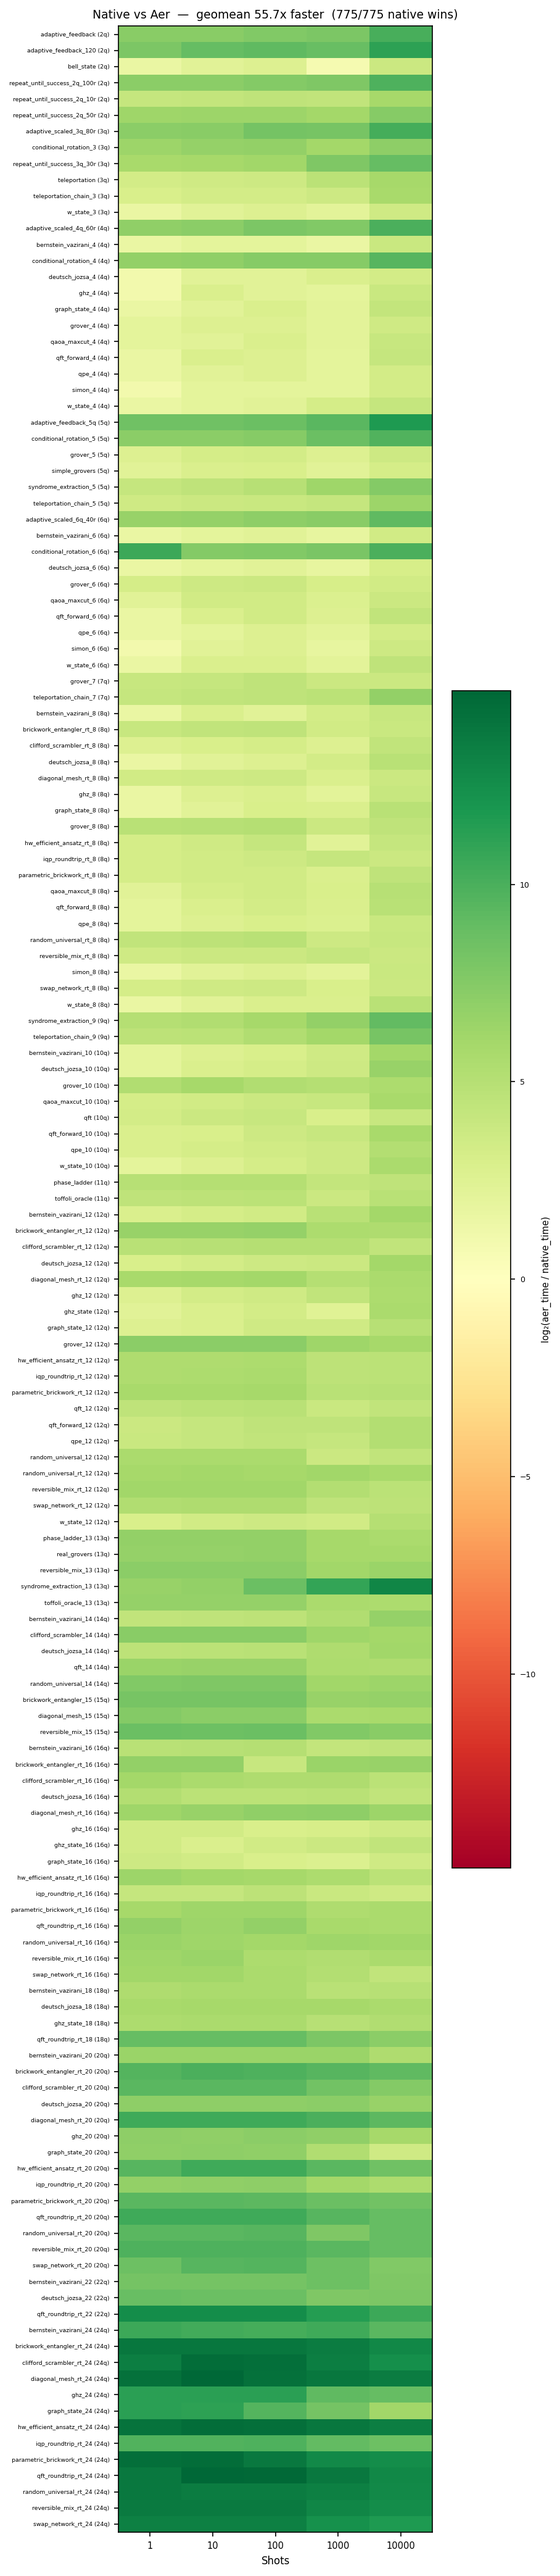
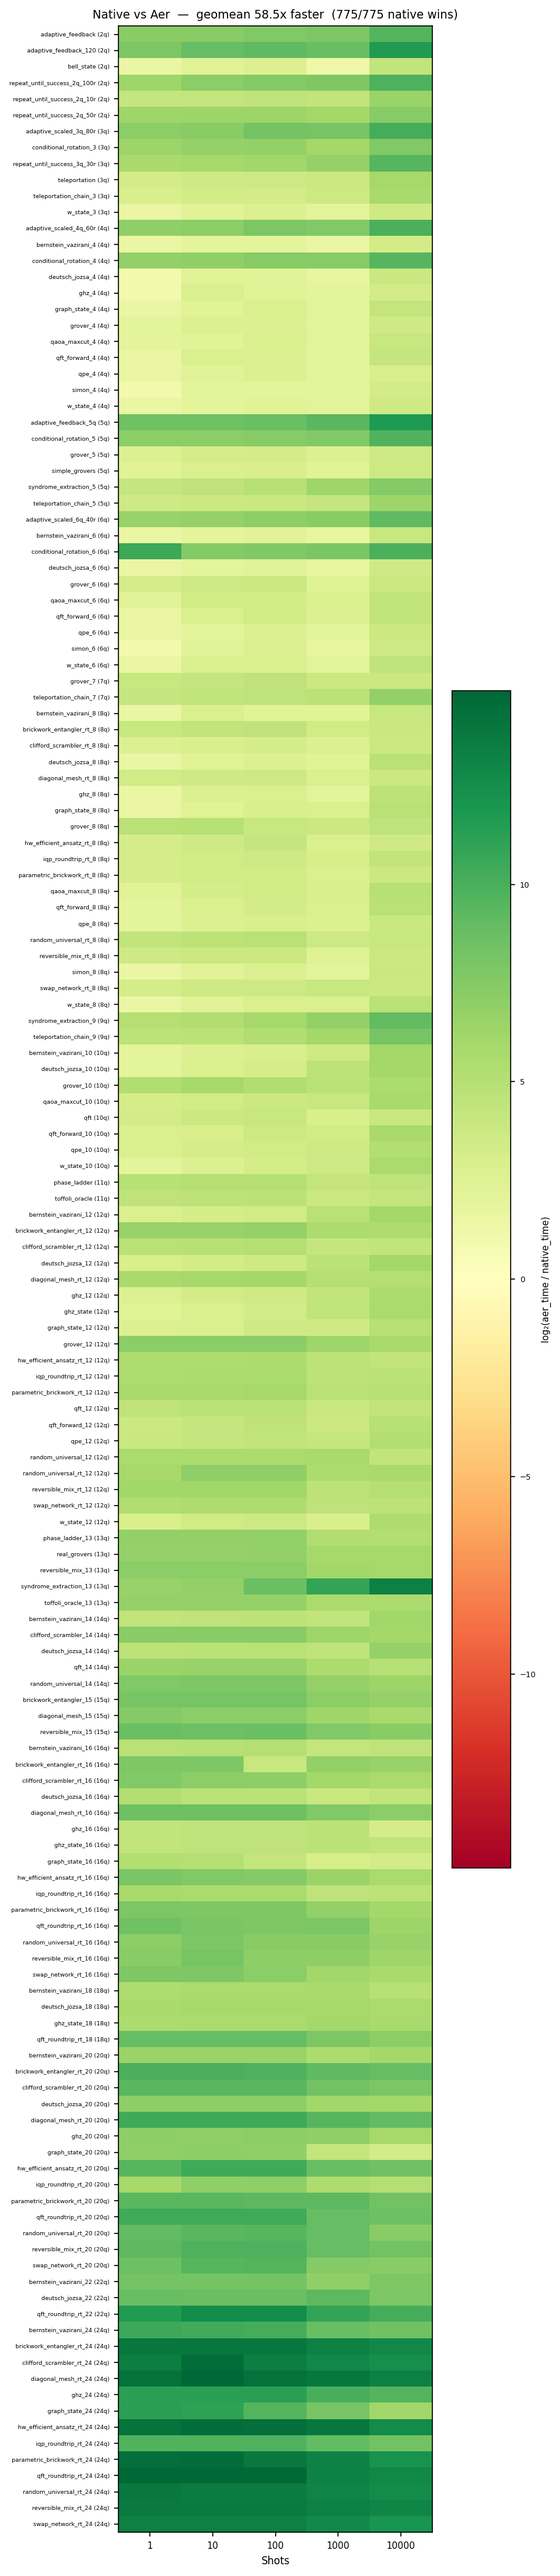
Record idx 40: adaptive bincount vs unique
Total: 0.155s → 0.146s (6%). Aer geomean: 58.5x (775/775 native wins).

diff --git a/docs/experiment-log.md b/docs/experiment-log.md
@@ -56,3 +56,4 @@ Metric column: core-6 @1000 total for idx 0-24; full-suite @1000 total (complete
 | 37 | `7c8bacb` | Two optimizations: (1) Vectorized binary string formatting — numpy broadcast bit extraction (`>>` + `& 1` + `tobytes` + `decode`) replaces per-element `format()` calls. ~30% faster on format loop. (2) Sparse CDF caching for static circuits — when output distribution has K << 2^n nonzero outcomes, store only (codes, CDF) with K entries instead of dense 2^n CDF. Searchsorted on K=2 instead of 16M at 24q. Benefits roundtrip, BV, DJ, GHZ circuits. `deutsch_jozsa_22` 2.3x, `bernstein_vazirani_24` 1.7x faster. Aer geomean: 47.2x native faster. 775/775 cells native wins. | 0.048s (156 cases) | Worked (1.04x) |
 | 38 | `8464055` | Optimized `_counts_from_register_codes` dict construction. (1) Pre-decode raw bytes to Python str once, then use str slicing in dict comprehension instead of per-element bytes slice + decode — 1.5x faster on the format loop (~10K entries at 24q: 3.1ms→1.9ms). (2) Lowered bincount threshold from 20 to 16 bits — `torch.unique` is O(K log K) vs `bincount+nonzero` O(2^n), crossover at ~17q. At 24q/10K shots: bincount 5ms vs unique 0.4ms. Aer geomean: 53.3x native faster (was 47.2x). 775/775 cells native wins. | 0.043s (156 cases) | Worked (1.18x) |
 | 39 | `74183cf` | Binary string lookup table for ≤16-bit register codes. Pre-compute `list[str]` mapping code → binary string for n_bits ≤ 16 (max 65K entries, ~1MB, built lazily). Direct list index lookup is 2x faster than numpy bit extraction + tobytes + decode for converting register codes to dict keys. `graph_state_16` 1.4x, `grover_12` 1.3x faster. Aer geomean: 55.7x native faster (was 53.3x). 775/775 cells native wins. | 0.039s (156 cases) | Worked (1.10x) |
+| 40 | `751b889` | Adaptive bincount vs unique based on sample density. Use `torch.bincount` (O(2^n)) only when histogram is dense relative to sample count (`dim ≤ 2 * shots`). Otherwise use `torch.unique` (O(K log K)). At 16q/@1: bincount allocates 65K histogram for 1 sample (0.16ms), unique operates on 1 element (0.005ms, 32x faster). Low-shot totals improved: @1 20% faster, @10 18% faster. Aer geomean: 58.5x native faster (was 55.7x). 775/775 cells native wins. | 0.038s (156 cases) | Worked (1.05x) |

diff --git a/README.md b/README.md
@@ -6,7 +6,7 @@ A state-vector quantum circuit simulator built from scratch with PyTorch, target
 
 156 test circuits spanning 2-24 qubits, 10 circuit families, static and dynamic workloads. Benchmarked against Qiskit Aer (IBM's C++ simulator) across 5 shot counts. Per-cell color is `log2(aer_time / native_time)` — green means this simulator is faster.
 
-Overall geometric mean across all 775 cells: **55.7x faster** than Aer (155 common cases, 5 shot counts, 0.1ms floor). At high shot counts (10K), native is **71.8x faster** (775/775 cells native wins). At low shot counts (1), native wins 46.7x. CDF caching skips state evolution entirely on repeated calls; sparse CDF caching reduces searchsorted from O(log 2^n) to O(log K) for circuits with few outcomes; probability-weighted branching computes exact dynamic-circuit distributions analytically; compilation caching amortizes fusion passes; inverse-pair cancellation collapses all 50 roundtrip circuits to identity in O(n) time.
+Overall geometric mean across all 775 cells: **58.5x faster** than Aer (155 common cases, 5 shot counts, 0.1ms floor). At high shot counts (10K), native is **75.3x faster** (775/775 cells native wins). At low shot counts (1), native wins 49.8x. CDF caching skips state evolution entirely on repeated calls; sparse CDF caching reduces searchsorted from O(log 2^n) to O(log K) for circuits with few outcomes; probability-weighted branching computes exact dynamic-circuit distributions analytically; compilation caching amortizes fusion passes; inverse-pair cancellation collapses all 50 roundtrip circuits to identity in O(n) time.
 
 ## Why this exists
 

diff --git a/docs/progress-data.md b/docs/progress-data.md
@@ -29,6 +29,7 @@ All benchmark cases (24 hand-coded + 132 QASM-loaded). Cases that OOM are exclud
 | 8 | `2026-02-12T085627.jsonl` | `7c8bacb` | `7c8bacb\n02-12T0856` | 0.0287 | 0.0248 | 0.0270 | 0.0483 | 0.0760 | 156 |
 | 9 | `2026-02-12T090356.jsonl` | `8464055` | `8464055\n02-12T0903` | 0.0198 | 0.0175 | 0.0197 | 0.0431 | 0.0688 | 156 |
 | 10 | `2026-02-12T091156.jsonl` | `74183cf` | `74183cf\n02-12T0911` | 0.0187 | 0.0152 | 0.0194 | 0.0389 | 0.0629 | 156 |
+| 11 | `2026-02-12T091718.jsonl` | `751b889` | `751b889\n02-12T0917` | 0.0153 | 0.0123 | 0.0169 | 0.0377 | 0.0639 | 156 |
 
 ## SOTA Reference — Qiskit Aer (Full Suite)
 
